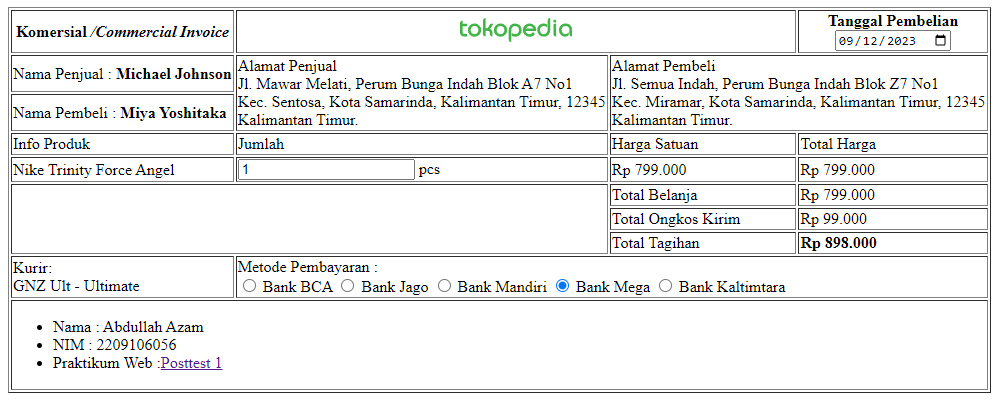
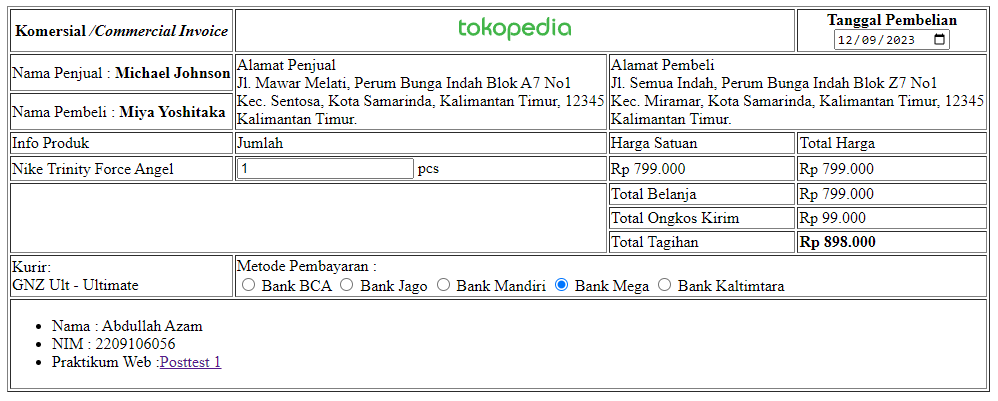
perbaiki tanggal dan colspan

Changed region(s): [[0.0, 0.0, 0.994, 0.9576]]

diff --git a/posttest-1/index.html b/posttest-1/index.html
@@ -9,15 +9,15 @@
     <table border="1">
         <tr>
             <th>Komersial <i>/Commercial Invoice</i></th>
-            <th colspan="3">
+            <th colspan="2">
                 <img src="tokopedia.svg"/></th>
             <th>
                 Tanggal Pembelian <br />
-                <input type="date" value="2023-12-09" /></th>
+                <input type="date" value="2023-09-12" /></th>
         </tr>
         <tr>
             <td>Nama Penjual : <b>Michael Johnson</b></td>
-            <td rowspan="2" colspan="2">
+            <td rowspan="2">
                 Alamat Penjual <br />
                 Jl. Mawar Melati, Perum Bunga Indah Blok A7 No1 <br />
                 Kec. Sentosa, Kota Samarinda, Kalimantan Timur, 12345 <br />
@@ -33,19 +33,19 @@
         </tr>
         <tr>
             <td>Info Produk</td>
-            <td colspan="2">Jumlah</td>
+            <td colspan="1">Jumlah</td>
             <td>Harga Satuan</td>
             <td>Total Harga</td>
         </tr>
         <tr>
             <td>Nike Trinity Force Angel</td>
-            <td colspan="2">
+            <td colspan="1">
                 <input value="1" type="number" /> pcs</td>
             <td>Rp 799.000</td>
             <td>Rp 799.000</td>
         </tr>
         <tr>
-            <td rowspan="3" colspan="3"></td>
+            <td rowspan="3" colspan="2"></td>
             <td>Total Belanja</td>
             <td>Rp 799.000</td>
         </tr>
@@ -62,7 +62,7 @@
               Kurir:<br />
               GNZ Ult - Ultimate
             </td>
-            <td colspan="4">
+            <td colspan="3">
               Metode Pembayaran :<br />
               <input type="radio" name="bank" /> Bank BCA
               <input type="radio" name="bank" /> Bank Jago
@@ -71,7 +71,7 @@
               <input type="radio" name="bank" /> Bank Kaltimtara</td>
         </tr>
         <tr>
-            <td colspan="5">
+            <td colspan="4">
               <ul>
                 <li>Nama : Abdullah Azam</li>
                 <li>NIM  : 2209106056</li>
